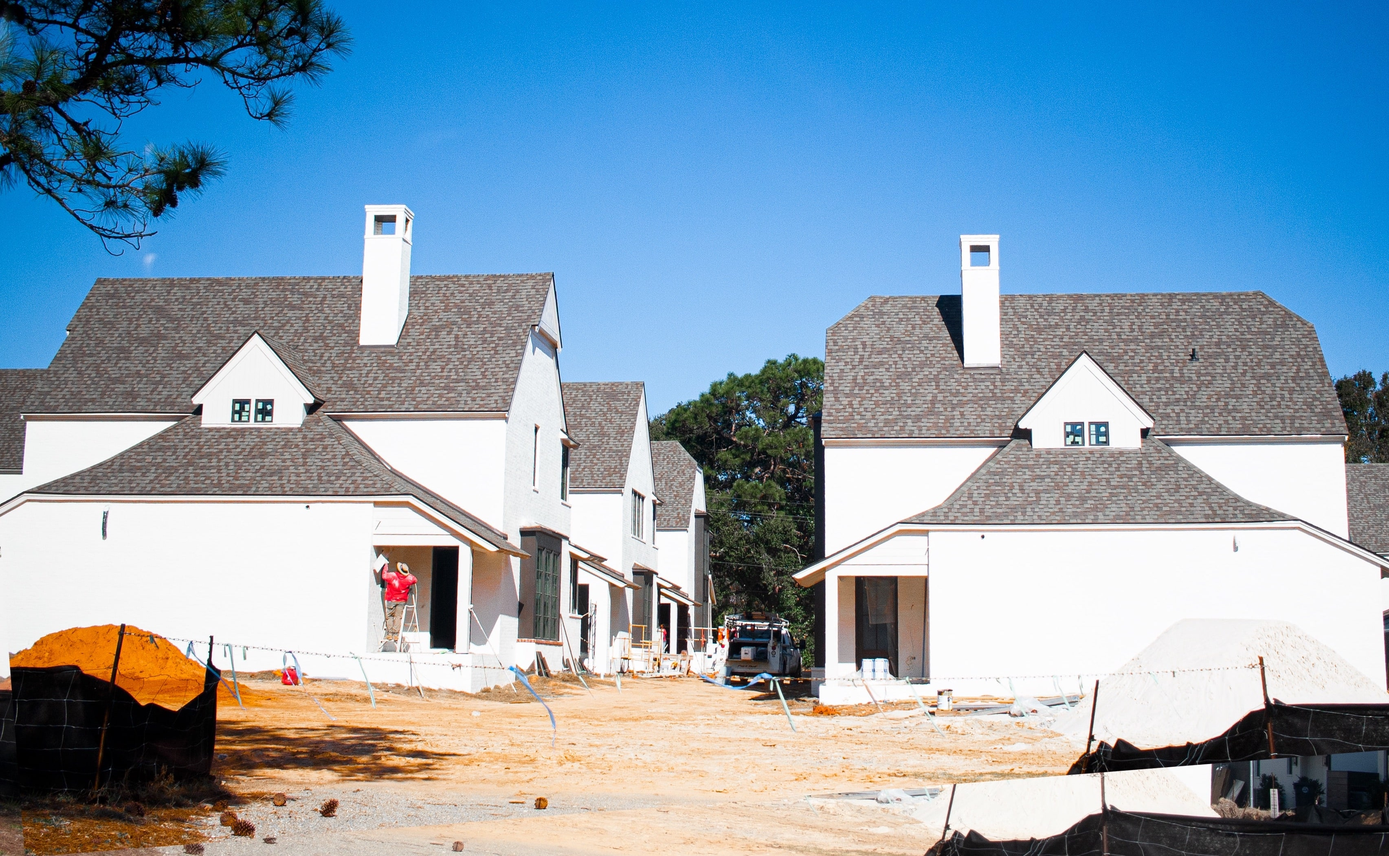
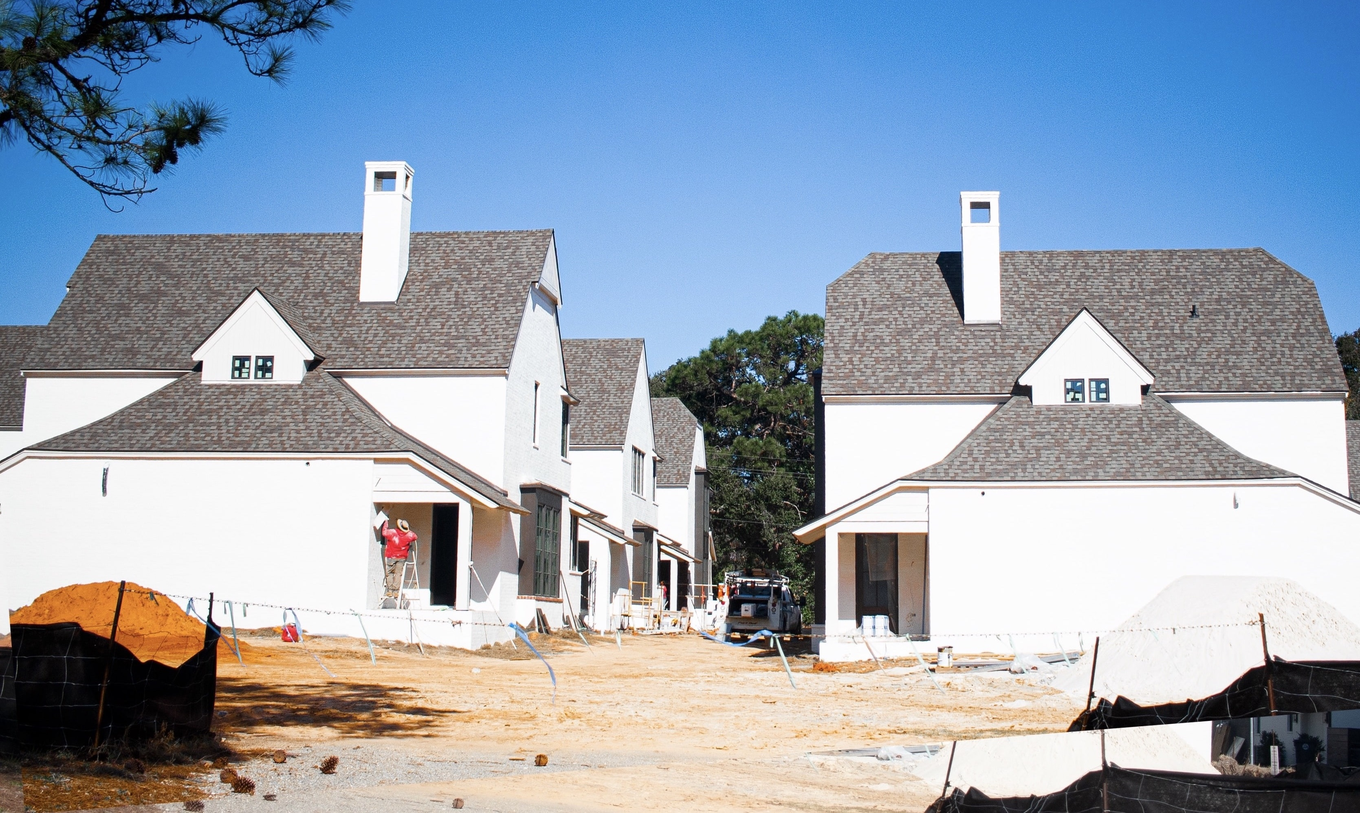
projects page changes, menu changes, img changes

diff --git a/work.html b/work.html
@@ -77,7 +77,7 @@
   text-align: right;
   border-radius: 15px;
   padding: 15px;
-  font-size: 11pt;
+  font-size: 10pt;
   font-family:'myFont', sans-serif;
 letter-spacing: 1px;
   /* Position the tooltip */
@@ -104,8 +104,8 @@ letter-spacing: 1px;
   }
 
   .MobileSpaceDiv2 {
-    padding-left: 25px;
-    padding-right: 15px;
+    padding-left: 20px;
+    padding-right: 5px;
     padding-top: 20px;
     background-color: #ffffff;
     z-index: 2;
@@ -182,7 +182,7 @@ letter-spacing: 1px;
       <section class="MobileSpaceDiv2">
         <div class="col-sm" style="padding-bottom: 15px">
           <div class="grid-item">
-        <a href="BaldwinCo.html"><img width="500" height="100" id="prcImage" style="max-width:100%; height: auto; cursor: pointer; border-radius: 1.75px;" src="IMG_0882Compressed1.jpeg">
+        <a href="BaldwinCo.html"><img width="500" height="100" id="prcImage" style="max-width:100%; height: auto; cursor: pointer; border-radius: 1.75px;" src="Sebastiani_AlabamaSwampland.jpg">
           <span class="tooltiptext" style="padding: 11px;"> Lower Alabama <mark style="background-color: #dee260de; border-radius: 1.5px; font-size:9pt; ">Photo</mark></span>
         </a></div>
         <!-- //div for col-sm// --> </div>
@@ -190,20 +190,20 @@ letter-spacing: 1px;
 
 <div class="col-sm" style="padding-bottom: 15px;">
   <div class="grid-item"><a href="ADayLikeAnyOther.html"><img width="500" height="100" id="prcImage" style="max-width:100%; height: fit-content; cursor: pointer; border-radius: 1.75px;" src="ADLAOvg.jpg">
-  <span class="tooltiptext" style="padding: 10px; width: 360px;">A Day Like Any Other <mark style="background-color: #bde3f8a1; border-radius: 1.5px; font-size:9pt;">Unity 3D Demo</mark></span>
+  <span class="tooltiptext" style="padding: 10px; width: 360px; left: 150px;">A Day Like Any Other <mark style="background-color:#ffdefea1; border-radius: 1.5px; font-size:9pt;">Unity 3D Demo</mark></span>
 </a>
   </div> </div>
 
   <div class="col-sm" style="padding-bottom: 15px;">
     <div class="grid-item"><a href="Massachusetts.html"><img width="500" height="100" id="hagd" style="max-width:100%; height: auto; cursor: pointer; border-radius: 1.75px;" src="lighting2Q70.jpg">
-        <span class="tooltiptext" style="padding: 11px; width: 300px; top:90%;"> Massachusetts <mark style="background-color: #dee260de; border-radius: 1.5px;font-size:9pt;">Photo</mark></span>
+        <span class="tooltiptext" style="padding: 11px; width: 300px; top:90%; left: 42%"> Massachusetts <mark style="background-color: #dee260de; border-radius: 1.5px;font-size:9pt;">Photo</mark></span>
       </a></div>
     <!-- //div for col-sm// --></div> 
 
   <div class="col-sm" style="padding-bottom: 15px;">
     <div class="grid-item">
   <a href="MythofSelfRegulatoryMachine.html"><img width="500" height="100" id="prcImage" style="max-width:100%; height: auto; cursor: pointer; border-radius: 1.75px;" src="Myth.jpg">
-    <span class="tooltiptext" style="padding: 11px; width: 350px;">Regulation in 3D Printing and AI <mark style="background-color: #f85326a7; border-radius: 1.5px; font-size:9pt;">Video</mark></span>
+    <span class="tooltiptext" style="padding: 11px; width: 350px; left: 32%;">Regulation in 3D Printing and AI <mark style="background-color: #f85326a7; border-radius: 1.5px; font-size:9pt;">Video</mark></span>
   </a></div>
   <!-- //div for col-sm// --> </div>
 
@@ -215,7 +215,7 @@ letter-spacing: 1px;
 
     <div class="col-sm" style="padding-bottom: 15px;">
       <div class="grid-item"><a href="OrwellianIndustries.html"><img width="500" height="100" id="prcImage" style="max-width:100%; height: fit-content; cursor: pointer; border-radius: 1.75px;" src="OIvg.jpg">
-      <span class="tooltiptext" style="padding: 11px; width: 360px;">Orwellian Industries: The Sim <mark style="background-color:  #bde3f8a1; border-radius: 1.5px;font-size:9pt; ">Unity 2D Demo</mark></span>
+      <span class="tooltiptext" style="padding: 11px; width: 360px; left: 30%">Orwellian Industries: The Sim <mark style="background-color:  #ffdefea1; border-radius: 1.5px;font-size:9pt; ">Unity 2D Demo</mark></span>
     </a>
       </div> </div>
 

diff --git a/BaldwinCo.html b/BaldwinCo.html
@@ -299,9 +299,9 @@ li a:hover{
 
             <h1 class="headline" style="text-align:right; border-radius: 8px;  margin-bottom: 2.75px; margin-top:5%; font-size: 13pt;">Lower Alabama <small style="font-size:12pt; color: #d66909;padding: 1.5pt;border-radius: 4pt;">2019 - Ongoing</small></h1>
                  <br>
-             <img class="img" id="working" src="working4.jpg" alt="Fairhope, AL" style="max-width:100%">
+             <!-- <img class="img" id="working" src="working4.jpg" alt="Fairhope, AL" style="max-width:100%"> -->
 
-                <!-- <img class="img" id="working" src="Sebastiani_aldi construction worker on break, across the street from the walmart (Fairhope, Alabama).jpg" alt="Fairhope, AL" style="max-width:100%"> -->
+                <img class="img" id="working" src="Sebastiani_aldi construction worker on break, across the street from the walmart (Fairhope, Alabama).jpg" alt="Fairhope, AL" style="max-width:100%">
        
                 <!-- <img id="bama" src="bamaQ50P70.jpg" style="max-width:100%; max-height: 700px;">
                -->
@@ -312,35 +312,50 @@ li a:hover{
 
                <img id="father" class="img" src="IMG_1408.jpeg" style="max-width:100%; max-height: 700px;">    
 
-               <img class="img" src="IMG_0882Compressed1.jpeg" alt="Condo Construction (Fairhope, AL 2023)" style="max-width:100%">
         
                     <img class="img" src="Sebastiani_high school graduation in alabama.jpg" alt="High School graduation in AL" style="max-width:100%" id="crane">
                   
         
                     <img class="img" src="IMG_1400.jpeg" alt="Loxley, AL" style="max-width:100%;">
 
+                    <img class="img" id="Elicia" src="E2.jpg"  style="max-width:100%; max-height:600px; ">
+
+
+                    <img class="img" src="IMG_0882Compressed1.jpg" alt="Condo Construction (Fairhope, AL 2023)" style="max-width:100%">
+
+
                     <img class="img" id="lot" src="meatQ30.jpg" style="width:100%">
+
                     <img class="img" id="closed" src="will.jpg" style="max-width:100%">
 
+                    <!-- <img  class="img"   id="becca" src="4.jpg" style="max-width:100%; max-height:700px"> -->
 
+                    <img  class="img"   id="swamp" src="Sebastiani_AlabamaSwampland.jpg" style="max-width:100%">
+
+
+                    <img class="img" id="boys" src="film1.jpg" style="max-width:100%">
+
+
+
+                    <img class="img" id="boys" src="strawb3Vignette2.jpeg" style="max-width:100%">
 
                     <img class="img" id="flower" src="flowerhandQ80.jpg" alt="Loxley, AL" style="max-width:100%; max-height:700px">
 
 
-                    <img  class="img"   id="swamp" src="Sebastiani_AlabamaSwampland.jpg" style="max-width:100%">
+                    <img class="img" id="lot" src="lot.jpg" style="width:100%">
 
-                    <img class="img" id="boys" src="film1.jpg" style="max-width:100%">
+                    <img class="img" id="cow" src="cow3.jpg" style="width:100%">
+
+
 
                     <img class="img" id="closed" src="Sebastiani_foreclosure (Mobile, Alabama).jpg" style="max-width:100%">
-
-
-                    <img class="img" id="over" src="roadtrees.jpg" style="max-width:100%">
 
                     <!-- <img class="img" id="lot" src="film3.jpg" style="max-width:100%; max-height:700px"> -->
                   
                     <img class="img" id="over" src="Sebastiani_My father, after an accident clearing trees in the wake of Hurricane Ida (Loxley, Alabama).jpg" style="max-width:100%; max-height: 700px;">
                         
-                <img class="img" id="lot" src="lot.jpg" style="width:100%">
+                    <img class="img" id="over" src="roadtrees.jpg" style="max-width:100%">
+
 
                 </section>
 

diff --git a/research.html b/research.html
@@ -362,7 +362,7 @@ li a:hover{
             <h1 class="headline" style="line-height: 0.9;padding: 10px; padding-left:0%; padding-top:0%; border-radius: 8px; font-size:30pt; margin-bottom: 0%; font-weight: bold;"><a href="https://docs.google.com/document/d/1cXHKAG1vdJUOrmqsiJoIO7Qlg1JHOGCM/edit?usp=sharing&ouid=103206116209846339059&rtpof=true&sd=true" target="_blank" rel="noopener noreferrer"; style="font-size:20pt; display: inline;">Web3: Creating Community through the Blockchain</a> 
               <small style="font-size:12pt; color: #d66909; font-weight: normal; letter-spacing: 1px; padding: 5pt; padding-left: 0%;">Fall 2021</small>
             </h1>
-            <a href="https://docs.google.com/document/d/1cXHKAG1vdJUOrmqsiJoIO7Qlg1JHOGCM/edit?usp=sharing&ouid=103206116209846339059&rtpof=true&sd=true"><img src="linkRecolored.jpg" style="box-shadow:0px 4px 6px #24242421; max-width: 100%; max-height: 500px; margin-bottom:25px;">
+            <a href="https://docs.google.com/document/d/1cXHKAG1vdJUOrmqsiJoIO7Qlg1JHOGCM/edit?usp=sharing&ouid=103206116209846339059&rtpof=true&sd=true"><img src="linkRecolored.jpg" style="box-shadow:0px 4px 6px #24242421; max-width: 100%; max-height: 400px; margin-bottom:25px;">
             </a>
             <!-- <p style="background-color:#f8f8db88; border-radius: 8px; padding: 5px;padding-bottom:0%; padding-top: 0%;">A philosophical perspective on the digital infrastructure of Web3 and how a blockchain internet foundation can establish decentralized networks that protect user data.  
           </p> -->

diff --git a/info.html b/info.html
@@ -276,7 +276,7 @@ li a:hover{
                 <p style="margin-top: 3.5%; margin-bottom: 0%; font-family:'myFont', 'Alte Haas Grotesk Regular', sans-serif; letter-spacing: 0.25px;">
                   Sophie Sebastiani (b. Alabama, 2000) works with photo, video, interactive and other digital media to explore technological and economic development in the US and record its effects on public action, interpersonal relationships and the environment.
                   <br><br>
-                  She received a B.A. in Economics and Media Arts and Sciences from Wellesley College (Wellesley, MA) in 2023. She has also curated, installed and mounted exhibits for Jewett Art Center Galleries, and assisted working artists with painting and photography projects. <em>See CV below.</em>
+                  She received a B.A. in Economics and Media Arts and Sciences from Wellesley College (Wellesley, MA) in 2023. She has curated, installed and mounted exhibits for Jewett Art Center Galleries, and assisted working artists with large-scale mural and photo collection projects.
 
                  
                

diff --git a/Massachusetts.html b/Massachusetts.html
@@ -311,18 +311,25 @@ li a:hover{
 
                <img class="img" style="max-width: 100%; max-height: 700px;" src="two.jpg">
 
+
                <img class="img" style="max-width: 100%" id="lighting" src="lightingQ70.jpg">
  
+
                <img class="img" style="max-width: 100%; width: 500px;" src="economy1.jpg">
+               <br>
+
+               <img class="img" style="max-width: 100%; max-height: 400px;  padding-right: 15px;"  id="Footsteps" src="FootstepsBrighter.jpg">
 
 
                <img class="img" style="max-width: 100%; max-height: 400px" id="backbaybuild" src="constructionBrighter.jpeg">
                
 
-               <img class="img" style="max-width: 100%; max-height: 700px"  id="Footsteps" src="FootstepsBrighter.jpg">
 
+
+               <img class="img" style="max-width: 100%" id="swirl" src="swirlCompressed.jpg">
 
                <img class="img" style="max-width: 100%; max-height: 700px"  id="stroll" src="IMG_3010.jpeg">
+
 
 
   
